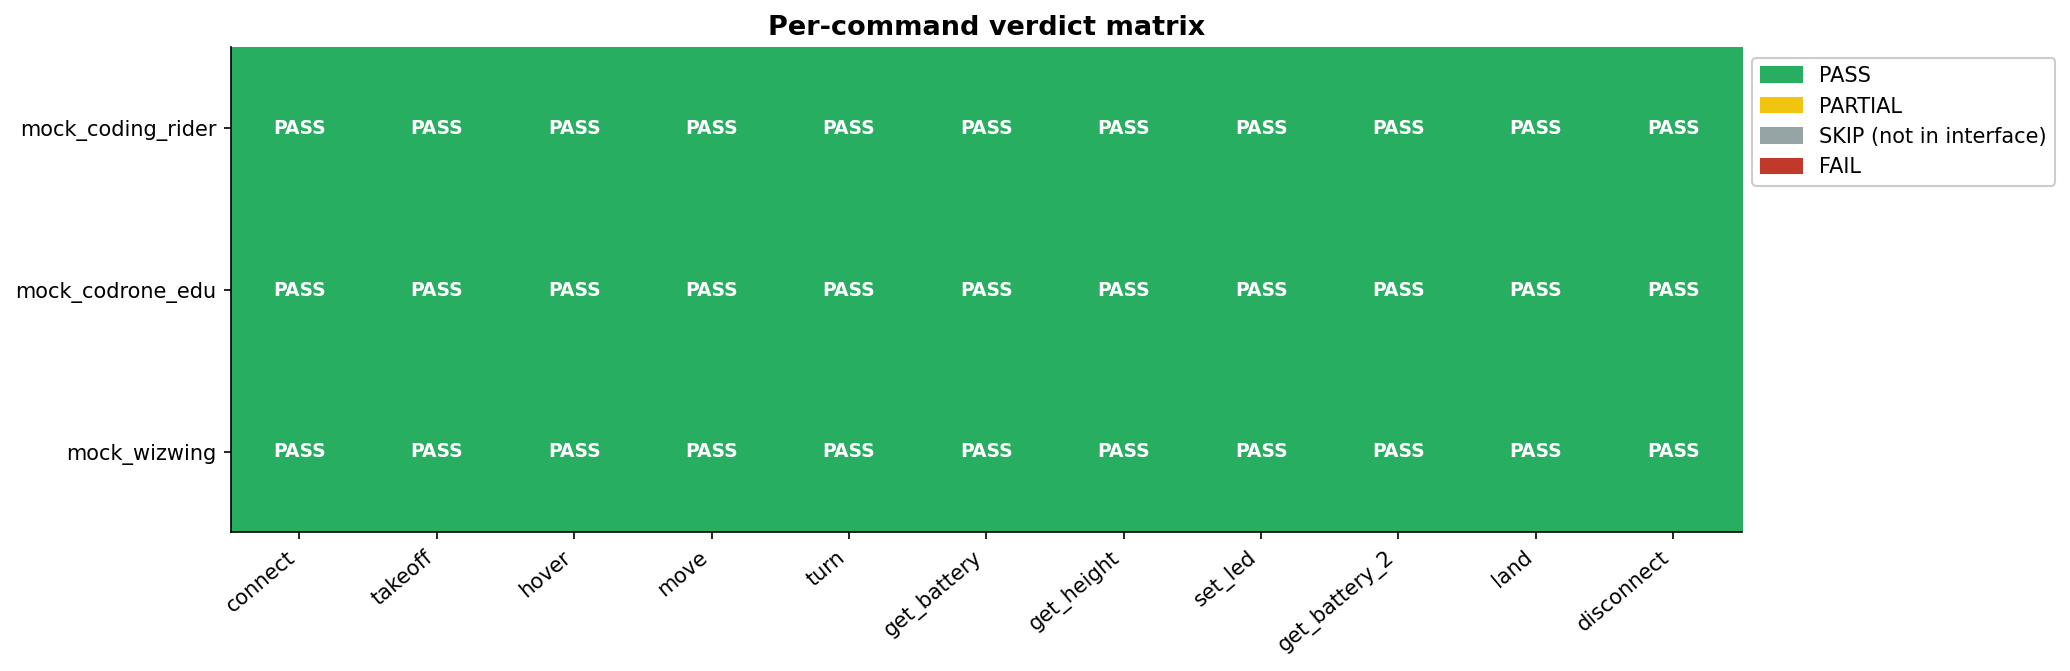
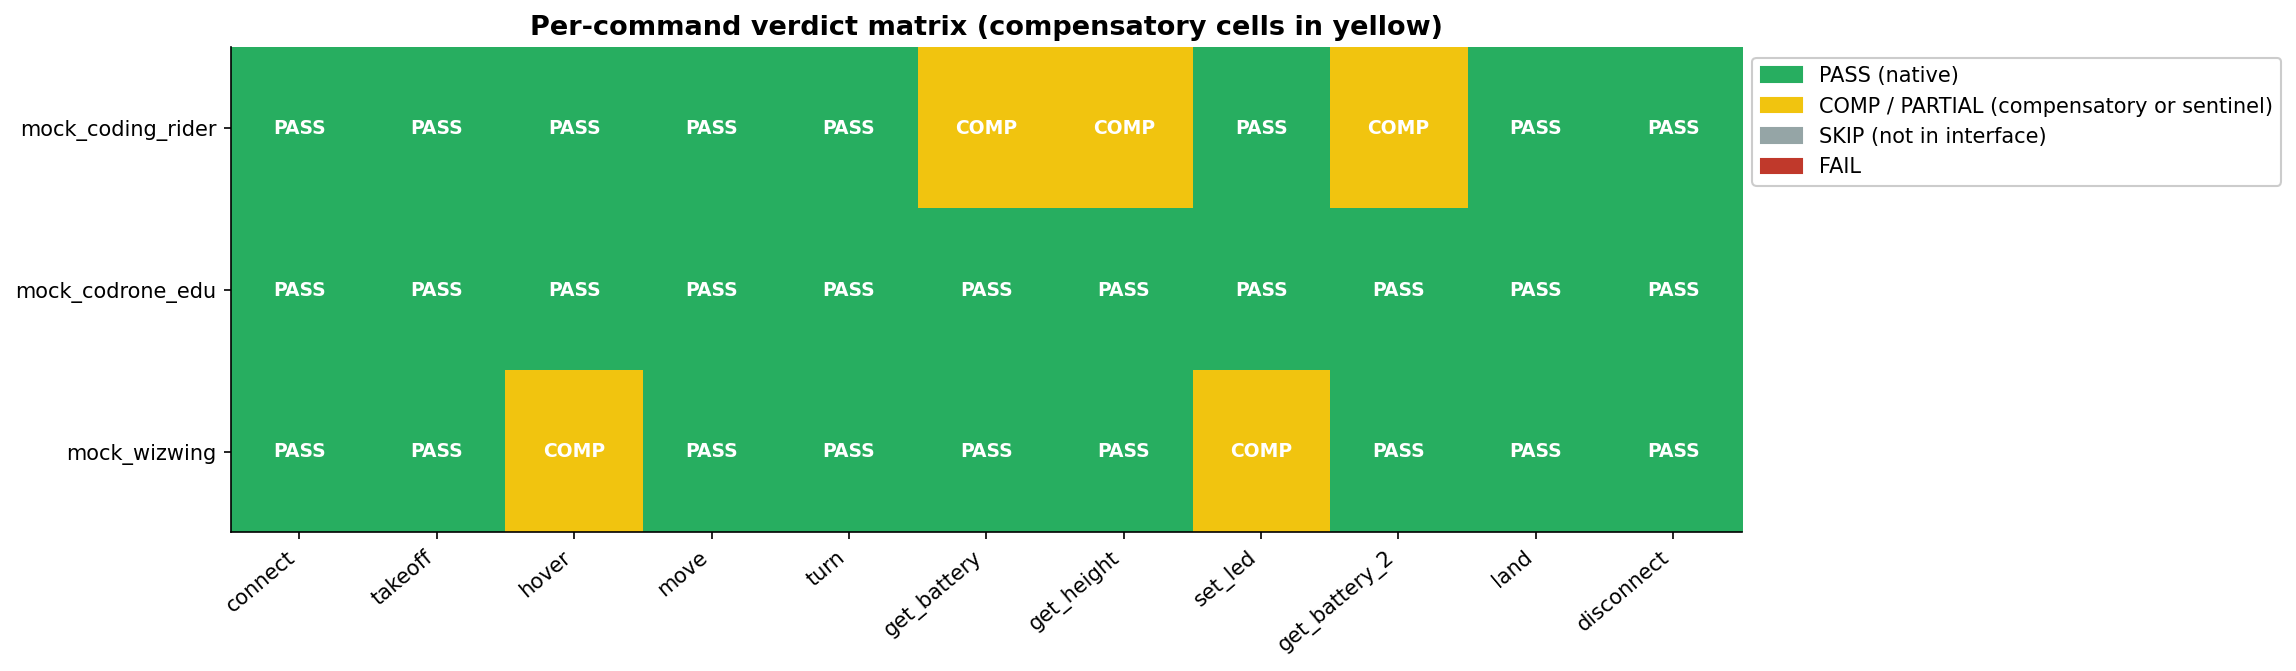
Distinguish PASS (native) vs COMP (compensatory) in interop matrix

diff --git a/visualize_results.py b/visualize_results.py
@@ -481,6 +481,24 @@ def chart_interop_timing() -> Path:
 # =====================================================================
 
 def chart_interop_matrix() -> Path:
+    """Per-command verdict matrix.
+
+    Visual semantics (combines ``result`` and ``implementation`` columns):
+      * GREEN (PASS via NATIVE):
+            command executed without exception and the adapter used a
+            direct primitive of the underlying SDK.
+      * YELLOW (PASS via COMPENSATION):
+            command executed without exception but the adapter had to do
+            non-trivial work to bridge a heterogeneity (async->sync,
+            missing primitive, or capability gap). Shown as a partial
+            success because the user's intent was satisfied through
+            framework-mediated translation rather than a direct call.
+      * YELLOW (PARTIAL):
+            command executed but returned a sentinel value (-1 / -1.0)
+            because the telemetry was unavailable.
+      * GREY  (SKIP / FRAMEWORK_LIMIT)
+      * RED   (FAIL)
+    """
     rows = read_csv(ROOT / "interoperability_results.csv")
     platforms = sorted({r["platform"] for r in rows})
     commands_seen: List[str] = []
@@ -488,13 +506,35 @@ def chart_interop_matrix() -> Path:
         if r["command"] not in commands_seen:
             commands_seen.append(r["command"])
 
-    code_map = {"PASS": 3, "PARTIAL": 2, "FAIL": 0, "FRAMEWORK_LIMIT": 1}
-    label_map = {3: "PASS", 2: "PART", 1: "SKIP", 0: "FAIL"}
+    # Cell encoding:
+    #   3 = PASS (NATIVE)         -- direct call to SDK primitive
+    #   2 = PASS via COMPENSATION -- adapter did extra work; user got a result
+    #   2 = PARTIAL               -- returned sentinel value
+    #   1 = SKIP / FRAMEWORK_LIMIT
+    #   0 = FAIL
     matrix = np.zeros((len(platforms), len(commands_seen)))
+    labels = np.empty((len(platforms), len(commands_seen)), dtype=object)
     for r in rows:
         i = platforms.index(r["platform"])
         j = commands_seen.index(r["command"])
-        matrix[i, j] = code_map.get(r["result"], 0)
+        verdict = r["result"]
+        impl = r.get("implementation", "")
+        if verdict == "FAIL":
+            matrix[i, j] = 0
+            labels[i, j] = "FAIL"
+        elif verdict == "FRAMEWORK_LIMIT":
+            matrix[i, j] = 1
+            labels[i, j] = "SKIP"
+        elif verdict == "PARTIAL":
+            matrix[i, j] = 2
+            labels[i, j] = "PART"
+        elif verdict == "PASS" and impl == "COMPENSATORY":
+            # PASS but the adapter compensated -- visualised as partial
+            matrix[i, j] = 2
+            labels[i, j] = "COMP"
+        else:
+            matrix[i, j] = 3
+            labels[i, j] = "PASS"
 
     cmap = matplotlib.colors.ListedColormap([
         COLORS["fail"], COLORS["skip"], COLORS["partial"], COLORS["pass"]
@@ -510,20 +550,20 @@ def chart_interop_matrix() -> Path:
 
     for i in range(len(platforms)):
         for j in range(len(commands_seen)):
-            ax.text(j, i, label_map[int(matrix[i, j])],
+            ax.text(j, i, labels[i, j],
                     ha="center", va="center",
                     color="white", fontweight="bold", fontsize=9)
 
     # Custom legend
     legend_handles = [
-        plt.Rectangle((0, 0), 1, 1, color=COLORS["pass"], label="PASS"),
-        plt.Rectangle((0, 0), 1, 1, color=COLORS["partial"], label="PARTIAL"),
-        plt.Rectangle((0, 0), 1, 1, color=COLORS["skip"], label="SKIP (not in interface)"),
-        plt.Rectangle((0, 0), 1, 1, color=COLORS["fail"], label="FAIL"),
+        plt.Rectangle((0, 0), 1, 1, color=COLORS["pass"],    label="PASS (native)"),
+        plt.Rectangle((0, 0), 1, 1, color=COLORS["partial"], label="COMP / PARTIAL (compensatory or sentinel)"),
+        plt.Rectangle((0, 0), 1, 1, color=COLORS["skip"],    label="SKIP (not in interface)"),
+        plt.Rectangle((0, 0), 1, 1, color=COLORS["fail"],    label="FAIL"),
     ]
     ax.legend(handles=legend_handles, loc="upper left",
               bbox_to_anchor=(1.0, 1.0), framealpha=1)
-    ax.set_title("Per-command verdict matrix")
+    ax.set_title("Per-command verdict matrix (compensatory cells in yellow)")
     ax.grid(False)
     return save(fig, "fig10_interop_matrix.png")
 
